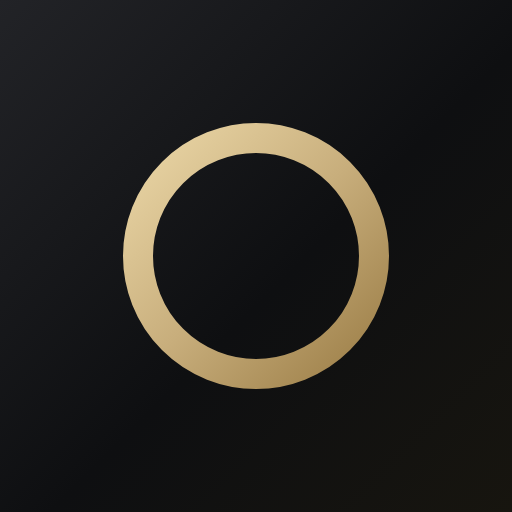
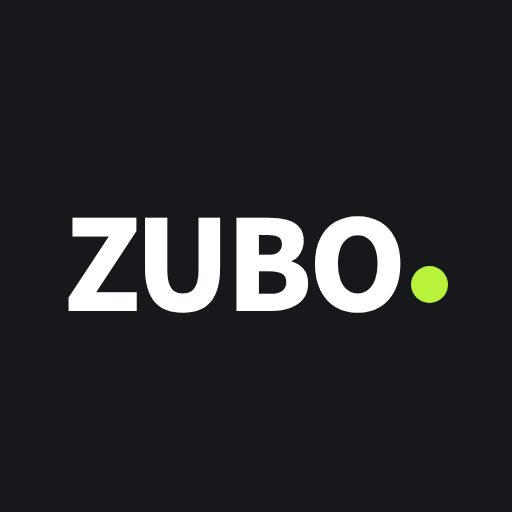
アイコンを ZUBO（A案）に変更、Face IDでのロック解除を追加
- ホーム画面アイコンを黒地に白い ZUBO＋ライムの点に
- パスコードがオンのとき、設定から Face ID をオンにできる（端末内のパスキーで本人確認）
- ロック画面に「Face IDで開く」を表示し、開いたときに自動で起動

Claude-Session: https://claude.ai/code/session_01TLuBrKzU7wLDBrjCVBsmKo

Changed region(s): [[0.125, 0.2188, 0.875, 0.7812]]

diff --git a/app.js b/app.js
@@ -101,6 +101,7 @@ const GLYPH = {
   lock: '<rect x="5" y="11" width="14" height="9" rx="2"/><path d="M8 11V8a4 4 0 0 1 8 0v3"/>',
   phone: '<rect x="7" y="3" width="10" height="18" rx="2.5"/><path d="M11 18h2"/>',
   x: '<path d="M6 6l12 12M18 6L6 18"/>',
+  face: '<path d="M4 8V6a2 2 0 0 1 2-2h2M16 4h2a2 2 0 0 1 2 2v2M20 16v2a2 2 0 0 1-2 2h-2M8 20H6a2 2 0 0 1-2-2v-2"/><path d="M9 9v1.5M15 9v1.5M12 9v4h-1M9.5 16a3.5 3.5 0 0 0 5 0"/>',
   warn: '<path d="M12 4l9 16H3z"/><path d="M12 10v4M12 17h.01"/>',
   qr: '<rect x="4" y="4" width="6" height="6" rx="1"/><rect x="14" y="4" width="6" height="6" rx="1"/><rect x="4" y="14" width="6" height="6" rx="1"/><path d="M14 14h2v2h-2zM18 18h2v2h-2zM14 18h2M18 14h2"/>',
   copy: '<rect x="8" y="8" width="12" height="12" rx="2"/><path d="M16 8V5a1 1 0 0 0-1-1H5a1 1 0 0 0-1 1v10a1 1 0 0 0 1 1h3"/>',
@@ -758,6 +759,7 @@ function viewSettings() {
   <div class="menu">
     <button data-act="rename"><div class="l">名前<small>画面上の表示に使います</small></div><div class="r">${esc(P.name)}</div><span class="chev">›</span></button>
     <button data-act="pin"><div class="l">パスコード<small>アプリを開くときの4桁の数字</small></div><div class="r">${P.pin ? 'オン' : 'オフ'}</div><span class="chev">›</span></button>
+    ${P.pin && bioSupported ? `<button data-act="faceid"><div class="l">Face ID<small>パスコードの代わりに顔で開く</small></div><div class="r">${P.fid ? 'オン' : 'オフ'}</div><span class="chev">›</span></button>` : ''}
     ${P.pin ? '<button data-act="lock"><div class="l">いますぐロックする</div><span class="chev">›</span></button>' : ''}
     <button data-act="switch"><div class="l">アカウントを切り替え・追加</div><span class="chev">›</span></button>
   </div>
@@ -854,6 +856,7 @@ app.addEventListener('click', e => {
     case 'rec': openRec(ds_.id); break;
     case 'rename': openRename(); break;
     case 'pin': openPinSettings(); break;
+    case 'faceid': openFaceIdSettings(); break;
     case 'lock': showLock(P); break;
     case 'switch': showPicker(); break;
     case 'transfer': openTransfer(); break;
@@ -1087,7 +1090,7 @@ const GUIDE = [
   ['', '今後の貯金額の見方', `<ul><li><b>目標</b>：いつまでに・いくら、を決めると達成率と「月いくら減らせば届くか」が出ます</li><li><b>グラフ</b>：過去3か月は実際の残高、その先6か月は予測。月をタップすると金額が出ます</li><li><b>ヒント</b>：記録からいちばん効きそうな節約を1つだけ出します。カテゴリを選んで登録するほど正確になります</li></ul>
     <p>予測は「毎月の予定」と「ここ3か月のふだんの支出の平均」から計算しています。使い始めは数字がブレやすいです。</p>`],
   ['', '残高を隠す', `<p>残高は開くたびに隠れた状態になります。「表示」を押すと見えます。アプリを閉じるとまた隠れます。</p>`],
-  ['', 'パスコード', `<p>設定 →「パスコード」でオン・オフ・変更ができます。忘れると元に戻せないので注意してください。</p>`],
+  ['', 'パスコード', `<p>設定 →「パスコード」でオン・オフ・変更ができます。パスコードをオンにすると「Face ID」も使えます。パスコードを忘れると元に戻せないので注意してください。</p>`],
   ['', '機種変更・バックアップ', `<p>データは<b>このスマホの中だけ</b>に保存されています。</p><ul><li>機種変更：前のスマホで 設定 →「新しいスマホに引き継ぐ」でQRを出し、新しいスマホの最初の画面で「QRで引き継ぐ」を押して映すだけ</li><li>アイコンを入れ直すとき：設定 →「引き継ぎをコピー」→ 入れ直したら最初の画面の「貼り付けで引き継ぐ」</li><li>間違えて消したときは、設定 →「自動の控え」から7日前まで戻せます</li><li>ときどき「バックアップをファイルに保存」しておくと安心</li><li>ホーム画面のアイコンを消すとデータも消えるので注意</li></ul>`],
 ];
 
@@ -1170,7 +1173,49 @@ function openPinSettings() {
     <div class="stack"><button class="btn btn-navy" data-change>パスコードを変更</button><button class="btn btn-danger" data-off>パスコードをオフにする</button></div>`,
   s => {
     $('[data-change]', s).onclick = () => verifyPinSheet('今のパスコード', () => setPinFlow(pin => { P.pin = pin; saveProfile(); render(); toast('パスコードを変更しました'); }));
-    $('[data-off]', s).onclick = () => verifyPinSheet('今のパスコード', () => { P.pin = null; saveProfile(); render(); toast('パスコードをオフにしました'); });
+    $('[data-off]', s).onclick = () => verifyPinSheet('今のパスコード', () => { P.pin = null; delete P.fid; saveProfile(); render(); toast('パスコードをオフにしました'); });
+  });
+}
+
+/* ---------- Face ID（パスキーを使った端末内の顔認証） ---------- */
+const bioSupported = !!(window.PublicKeyCredential && navigator.credentials?.create);
+async function bioRegister() {
+  const cred = await navigator.credentials.create({ publicKey: {
+    rp: { name: 'ZUBO', id: location.hostname },
+    user: { id: randBytes(16), name: P.name, displayName: P.name },
+    challenge: randBytes(32),
+    pubKeyCredParams: [{ type: 'public-key', alg: -7 }, { type: 'public-key', alg: -257 }],
+    authenticatorSelection: { authenticatorAttachment: 'platform', userVerification: 'required', residentKey: 'discouraged' },
+    timeout: 60000,
+  } });
+  return b64u(new Uint8Array(cred.rawId));
+}
+let bioBusy = false;
+async function bioVerify(p) {
+  if (!p.fid || bioBusy) return false;
+  bioBusy = true;
+  try {
+    const r = await navigator.credentials.get({ publicKey: {
+      challenge: randBytes(32), rpId: location.hostname, userVerification: 'required', timeout: 60000,
+      allowCredentials: [{ type: 'public-key', id: unb64u(p.fid), transports: ['internal'] }],
+    } });
+    return !!r;
+  } catch { return false; } finally { bioBusy = false; }
+}
+function openFaceIdSettings() {
+  if (P.fid) {
+    confirmSheet({ title: 'Face IDをオフにしますか？', ok: 'オフにする', danger: true, body: '開くときはパスコードを使います。',
+      onOk: () => { delete P.fid; saveProfile(); render(); toast('Face IDをオフにしました'); } });
+    return;
+  }
+  openSheet(`<h3>Face IDで開く</h3><p class="lead">パスコードの代わりに、顔でアプリを開けるようにします。顔のデータはiPhoneの中だけで使われ、アプリには保存されません。</p>
+    <div class="stack"><button class="btn btn-primary" data-on>Face IDをオンにする</button><button class="btn btn-text" data-cancel>やめる</button></div>`,
+  s => {
+    $('[data-cancel]', s).onclick = closeSheet;
+    $('[data-on]', s).onclick = async () => {
+      try { P.fid = await bioRegister(); saveProfile(); closeSheet(); render(); toast('Face IDをオンにしました'); }
+      catch { toast('Face IDを設定できませんでした'); }
+    };
   });
 }
 
@@ -1337,7 +1382,8 @@ function showLock(p) {
   const many = getProfiles().length > 1;
   fullScreen(`<div class="screen">
     <div class="hero"><div class="avatar" style="width:68px;height:68px;font-size:28px;margin:0 auto 12px">${esc([...p.name][0] || '?')}</div><h1 style="font-size:24px">${esc(p.name)}</h1></div>
-    ${pinPadHTML('パスコードを入力')}
+    ${p.fid && bioSupported ? `<div style="text-align:center;margin:-6px 0 14px"><button class="btn btn-primary bio-btn" data-bio>${glyph('face', 1.8)}Face IDで開く</button></div>` : ''}
+    ${pinPadHTML(p.fid && bioSupported ? 'またはパスコード' : 'パスコードを入力')}
     <div style="text-align:center;margin-top:20px">
       ${many ? '<button class="btn-text" data-switch>アカウントを切り替え</button>' : ''}
       <button class="btn-text" data-forgot>パスコードを忘れた</button>
@@ -1349,6 +1395,12 @@ function showLock(p) {
     return false;
   });
   $('[data-switch]', app)?.addEventListener('click', showPicker);
+  const bioBtn = $('[data-bio]', app);
+  if (bioBtn) {
+    const tryBio = async () => { if (await bioVerify(p)) openProfile(p); };
+    bioBtn.onclick = tryBio;
+    tryBio();
+  }
   $('[data-forgot]', app).onclick = () => openSheet(`<h3>パスコードを忘れたとき</h3>
     <p class="lead">データはこのスマホの中だけにあるので、パスコードを元に戻す方法はありません。<br>どうしても思い出せないときは、データを消して最初からやり直せます。</p>
     <div class="stack"><button class="btn btn-danger" data-reset>${esc(p.name)}のデータを消してやり直す</button><button class="btn btn-text" data-cancel>もう少し思い出してみる</button></div>`,

diff --git a/style.css b/style.css
@@ -671,3 +671,5 @@ select.field { appearance: none; -webkit-appearance: none; background: #fff url(
 .scan-text b { display: block; font-size: 18px; }
 .scan-text span { font-size: 13px; color: #bbb; }
 .scan-cancel { position: relative; margin-top: 36px; background: #fff; color: var(--ink); border-radius: 999px; padding: 14px 34px; font-weight: 800; }
+.bio-btn { width: auto; padding: 0 26px; display: inline-flex; gap: 10px; }
+.bio-btn .gl { width: 22px; height: 22px; }

diff --git a/sw.js b/sw.js
@@ -1,5 +1,5 @@
 // オフラインでも開けるように、アプリ本体をキャッシュする（まずネット、だめならキャッシュ）
-const CACHE = 'zubo-v12';
+const CACHE = 'zubo-v13';
 const ASSETS = ['./', 'index.html', 'style.css', 'app.js', 'manifest.webmanifest', 'icons/icon.svg', 'icons/apple-touch-icon.png', 'icons/icon-192.png', 'icons/icon-512.png'];
 
 self.addEventListener('install', e => {
